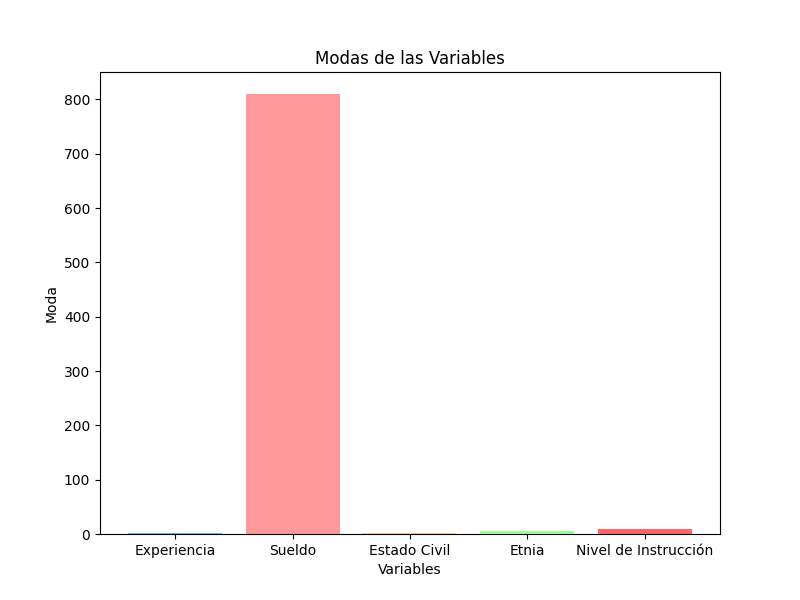
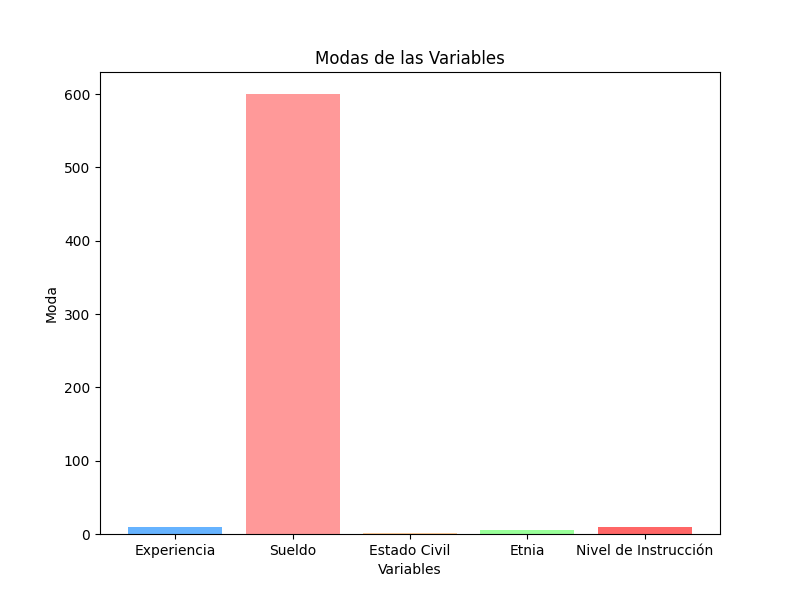
cambios

diff --git a/5_porcentajes.py b/5_porcentajes.py
@@ -28,13 +28,27 @@ porcentajeMujeres = (totalMujeres / total) * 100
 print(f'Porcentaje de Hombres: {porcentajeHombres}')
 print(f'Porcentaje de Mujeres: {porcentajeMujeres}')
 
+# Calcular la frecuencia absoluta
+frecuenciaHombres = totalHombres
+frecuenciaMujeres = totalMujeres
+
+print(f'Frecuencia Absoluta de Hombres: {frecuenciaHombres}')
+print(f'Frecuencia Absoluta de Mujeres: {frecuenciaMujeres}')
+
 # Crear un gráfico de barras para los porcentajes de hombres y mujeres
 labels = ['Hombres', 'Mujeres']
 sizes = [porcentajeHombres, porcentajeMujeres]
+frecuencias = [frecuenciaHombres, frecuenciaMujeres]
 colors = ['#66b3ff', '#ff9999']
 
 plt.figure(figsize=(8, 6))
-plt.bar(labels, sizes, color=colors)
+bars = plt.bar(labels, sizes, color=colors)
+
+# Añadir las etiquetas de frecuencia absoluta encima de las barras
+for bar, frecuencia in zip(bars, frecuencias):
+    yval = bar.get_height()
+    plt.text(bar.get_x() + bar.get_width()/2, yval + 1, f'{frecuencia}', ha='center', va='bottom')
+
 plt.xlabel('Sexo')
 plt.ylabel('Porcentaje')
 plt.title('Porcentajes de Hombres y Mujeres')
@@ -64,9 +78,25 @@ print(f'Porcentaje de Viudos: {porcentajeViudos}')
 print(f'Porcentaje de Union Libre: {porcentajeUnionLibre}')
 print(f'Porcentaje de Solteros: {porcentajeSolteros}')
 
+# Calcular la frecuencia absoluta
+frecuenciaCasados = totalCasados
+frecuenciaSeparado = totalSeparado
+frecuenciaDivorciados = totalDivorciados
+frecuenciaViudos = totalViudos
+frecuenciaUnionLibre = totalUnionLibre
+frecuenciaSolteros = totalSolteros
+
+print(f'Frecuencia Absoluta de Casados: {frecuenciaCasados}')
+print(f'Frecuencia Absoluta de Separados: {frecuenciaSeparado}')
+print(f'Frecuencia Absoluta de Divorciados: {frecuenciaDivorciados}')
+print(f'Frecuencia Absoluta de Viudos: {frecuenciaViudos}')
+print(f'Frecuencia Absoluta de Union Libre: {frecuenciaUnionLibre}')
+print(f'Frecuencia Absoluta de Solteros: {frecuenciaSolteros}')
+
 # Crear un gráfico circular para los porcentajes de estado civil
 labels = ['Casados', 'Separados', 'Divorciados', 'Viudos', 'Union Libre', 'Solteros']
 sizes = [porcentajeCasados, porcentajeSeparado, porcentajeDivorciados, porcentajeViudos, porcentajeUnionLibre, porcentajeSolteros]
+frecuencias = [frecuenciaCasados, frecuenciaSeparado, frecuenciaDivorciados, frecuenciaViudos, frecuenciaUnionLibre, frecuenciaSolteros]
 colors = ['#ff9999','#66b3ff','#99ff99','#ffcc99','#c2c2f0','#ffb3e6']
 explode = (0.1, 0, 0, 0, 0, 0)  # resaltar el primer segmento
 
@@ -74,6 +104,10 @@ plt.figure(figsize=(10, 7))
 plt.pie(sizes, explode=explode, labels=labels, colors=colors, autopct='%1.1f%%', shadow=True, startangle=140)
 plt.axis('equal')  # asegurar que el gráfico sea un círculo
 plt.title('Porcentajes de Estado Civil')
+
+# Añadir las etiquetas de frecuencia absoluta al gráfico circular
+plt.legend([f'{label}: {frecuencia}' for label, frecuencia in zip(labels, frecuencias)], loc='upper right')
+
 plt.savefig(f'{PathPorcentajes}estado_civil_pie_chart.png')  # Guarda el gráfico como un archivo
 
 # 3. Porcentaje de tipos de Etnia
@@ -105,13 +139,39 @@ print(f'Porcentaje de Mestizo: {porcentajeMestizo}')
 print(f'Porcentaje de Blanco: {porcentajeBlanco}')
 print(f'Porcentaje de Otro: {porcentajeOtro}')
 
+# Calcular la frecuencia absoluta
+frecuenciaIndigena = totalIndigena
+frecuenciaAfro = totalAfro
+frecuenciaNegro = totalNegro
+frecuenciaMulato = totalMulato
+frecuenciaMontubio = totalMontubio
+frecuenciaMestizo = totalMestizo
+frecuenciaBlanco = totalBlanco
+frecuenciaOtro = totalOtro
+
+print(f'Frecuencia Absoluta de Indigena: {frecuenciaIndigena}')
+print(f'Frecuencia Absoluta de Afro: {frecuenciaAfro}')
+print(f'Frecuencia Absoluta de Negro: {frecuenciaNegro}')
+print(f'Frecuencia Absoluta de Mulato: {frecuenciaMulato}')
+print(f'Frecuencia Absoluta de Montubio: {frecuenciaMontubio}')
+print(f'Frecuencia Absoluta de Mestizo: {frecuenciaMestizo}')
+print(f'Frecuencia Absoluta de Blanco: {frecuenciaBlanco}')
+print(f'Frecuencia Absoluta de Otro: {frecuenciaOtro}')
+
 # Crear un gráfico de barras para los porcentajes de etnia
 labels = ['Indigena', 'Afro', 'Negro', 'Mulato', 'Montubio', 'Mestizo', 'Blanco', 'Otro']
 sizes = [porcentajeIndigena, porcentajeAfro, porcentajeNegro, porcentajeMulato, porcentajeMontubio, porcentajeMestizo, porcentajeBlanco, porcentajeOtro]
+frecuencias = [frecuenciaIndigena, frecuenciaAfro, frecuenciaNegro, frecuenciaMulato, frecuenciaMontubio, frecuenciaMestizo, frecuenciaBlanco, frecuenciaOtro]
 colors = ['#ff9999','#66b3ff','#99ff99','#ffcc99','#c2c2f0','#ffb3e6','#c4e17f','#76d7c4']
 
 plt.figure(figsize=(10, 7))
-plt.bar(labels, sizes, color=colors)
+bars = plt.bar(labels, sizes, color=colors)
+
+# Añadir las etiquetas de frecuencia absoluta encima de las barras
+for bar, frecuencia in zip(bars, frecuencias):
+    yval = bar.get_height()
+    plt.text(bar.get_x() + bar.get_width()/2, yval + 1, f'{frecuencia}', ha='center', va='bottom')
+
 plt.xlabel('Etnia')
 plt.ylabel('Porcentaje')
 plt.title('Porcentajes de Etnia')
@@ -152,12 +212,45 @@ print(f'Porcentaje de Educacion Superior No Universitaria: {porcentajeEducacionS
 print(f'Porcentaje de Educacion Superior Universitaria: {porcentajeEducacionSuperiorUniv}')
 print(f'Porcentaje de Educacion Post Grados: {porcentajeEducacionPostGrados}')
 
+# Calcular la frecuencia absoluta
+frecuenciaNinguno = totalNinguno
+frecuenciaCentroAlfa = totalCentroAlfa
+frecuenciaJardinInfa = totalJardinInfa
+frecuenciaJardinPrimaria = totalJardinPrimaria
+frecuenciaEduBasica = totalEduBasica
+frecuenciaSecundaria = totalSecundaria
+frecuenciaEducacionMedia = totalEducacionMedia
+frecuenciaEducacionSuperiorNoUniv = totalEducacionSuperiorNoUniv
+frecuenciaEducacionSuperiorUniv = totalEducacionSuperiorUniv
+frecuenciaEducacionPostGrados = totalEducacionPostGrados
+
+print(f'Frecuencia Absoluta de Ninguno: {frecuenciaNinguno}')
+print(f'Frecuencia Absoluta de Centro Alfa: {frecuenciaCentroAlfa}')
+print(f'Frecuencia Absoluta de Jardin Infantil: {frecuenciaJardinInfa}')
+print(f'Frecuencia Absoluta de Jardin Primaria: {frecuenciaJardinPrimaria}')
+print(f'Frecuencia Absoluta de Educacion Basica: {frecuenciaEduBasica}')
+print(f'Frecuencia Absoluta de Secundaria: {frecuenciaSecundaria}')
+print(f'Frecuencia Absoluta de Educacion Media: {frecuenciaEducacionMedia}')
+print(f'Frecuencia Absoluta de Educacion Superior No Universitaria: {frecuenciaEducacionSuperiorNoUniv}')
+print(f'Frecuencia Absoluta de Educacion Superior Universitaria: {frecuenciaEducacionSuperiorUniv}')
+print(f'Frecuencia Absoluta de Educacion Post Grados: {frecuenciaEducacionPostGrados}')
+
 # Crear un gráfico de histogramas para los porcentajes de nivel de instrucción
-labels = ['Ninguno', 'Centro Alfa', 'Jardin Infantil', 'Jardin Primaria', 'Educacion Basica', 'Secundaria', 'Educacion Media', 'Educacion Superior No Univ', 'Educacion Superior Univ', 'Educacion Post Grados']
-sizes = [porcentajeNinguno, porcentajeCentroAlfa, porcentajeJardinInfa, porcentajeJardinPrimaria, porcentajeEduBasica, porcentajeSecundaria, porcentajeEducacionMedia, porcentajeEducacionSuperiorNoUniv, porcentajeEducacionSuperiorUniv, porcentajeEducacionPostGrados]
+labels = ['Ninguno', 'Centro Alfa', 'Jardin Infantil', 'Jardin Primaria', 'Educacion Basica', 'Secundaria', 'Educacion Media',
+           'Educacion Superior No Univ', 'Educacion Superior Univ', 'Educacion Post Grados']
+sizes = [porcentajeNinguno, porcentajeCentroAlfa, porcentajeJardinInfa, porcentajeJardinPrimaria, porcentajeEduBasica,
+          porcentajeSecundaria, porcentajeEducacionMedia, porcentajeEducacionSuperiorNoUniv, porcentajeEducacionSuperiorUniv, porcentajeEducacionPostGrados]
+frecuencias = [frecuenciaNinguno, frecuenciaCentroAlfa, frecuenciaJardinInfa, frecuenciaJardinPrimaria, frecuenciaEduBasica,
+               frecuenciaSecundaria, frecuenciaEducacionMedia, frecuenciaEducacionSuperiorNoUniv, frecuenciaEducacionSuperiorUniv, frecuenciaEducacionPostGrados]
 
 plt.figure(figsize=(12, 8))
-plt.bar(labels, sizes, color='skyblue')
+bars = plt.bar(labels, sizes, color='skyblue')
+
+# Añadir las etiquetas de frecuencia absoluta encima de las barras
+for bar, frecuencia in zip(bars, frecuencias):
+    yval = bar.get_height()
+    plt.text(bar.get_x() + bar.get_width()/2, yval + 1, f'{frecuencia}', ha='center', va='bottom')
+
 plt.xlabel('Nivel de Instrucción')
 plt.ylabel('Porcentaje')
 plt.title('Histogramas de Porcentajes de Nivel de Instrucción')

diff --git a/medidasEstadisticas.py b/medidasEstadisticas.py
@@ -7,14 +7,17 @@ FilterSueldoEmpleado = filtrar_datos()
 
 # VARIABLES GLOBALES
 Sexo = 'p02'
+Edad = 'p03'
 Sueldo = 'p66'
 EstadoCivil = 'p06'
 Experiencia = 'p45'
 Etnia = 'p15'
+Bono = 'Bono'
 NivelInstruccion = 'p10a'
 PathPromedios = 'graficos/medidasEstadisticas/'
 
 # Limpieza de datos: reemplazar espacios en blanco o cadenas vacías por NaN
+FilterSueldoEmpleado[Edad] = FilterSueldoEmpleado[Edad].replace(' ', pd.NA)
 FilterSueldoEmpleado[Experiencia] = FilterSueldoEmpleado[Experiencia].replace(' ', pd.NA)
 FilterSueldoEmpleado[Sueldo] = FilterSueldoEmpleado[Sueldo].replace(' ', pd.NA)
 FilterSueldoEmpleado[EstadoCivil] = FilterSueldoEmpleado[EstadoCivil].replace(' ', pd.NA)
@@ -25,6 +28,7 @@ FilterSueldoEmpleado[NivelInstruccion] = FilterSueldoEmpleado[NivelInstruccion].
 FilterSueldoEmpleado = FilterSueldoEmpleado.dropna(subset=[Experiencia, Sueldo, EstadoCivil, Etnia, NivelInstruccion])
 
 # Convertir las columnas a numérico, errores se manejan con 'coerce'
+FilterSueldoEmpleado.loc[:, Edad] = pd.to_numeric(FilterSueldoEmpleado[Edad], errors='coerce')
 FilterSueldoEmpleado.loc[:, Experiencia] = pd.to_numeric(FilterSueldoEmpleado[Experiencia], errors='coerce')
 FilterSueldoEmpleado.loc[:, Sueldo] = pd.to_numeric(FilterSueldoEmpleado[Sueldo], errors='coerce')
 FilterSueldoEmpleado.loc[:, EstadoCivil] = pd.to_numeric(FilterSueldoEmpleado[EstadoCivil], errors='coerce')
@@ -33,8 +37,20 @@ FilterSueldoEmpleado.loc[:, NivelInstruccion] = pd.to_numeric(FilterSueldoEmplea
 
 # Calcular la matriz de correlación
 print('************************************ Matriz de Correlación ********************************************')
-correlation_matrix = FilterSueldoEmpleado.corr()
+# QUIERO QUE LA MATRIZ DE CORRELACION FilterSueldoEmpleado SOLO SE MUESTREN LAS COLUMNAS p45, p66, p03, Bono
+FilterSueldoEmpleadoCorr = FilterSueldoEmpleado[[Experiencia, Sueldo, Edad, Bono]]
+correlation_matrix = FilterSueldoEmpleadoCorr.corr()
 print(correlation_matrix)
+
+# Crear un gráfico de calor para la matriz de correlación
+plt.figure(figsize=(10, 8))
+plt.matshow(correlation_matrix, cmap='coolwarm', fignum=1)
+plt.colorbar()
+plt.xticks(range(len(correlation_matrix.columns)), correlation_matrix.columns, rotation=45, ha='left')
+plt.yticks(range(len(correlation_matrix.columns)), correlation_matrix.columns)
+plt.title('Matriz de Correlación')
+plt.savefig(PathPromedios + 'correlation_matrix_heatmap.png')  # Guarda el gráfico como un archivo
+
 
 # Calcular las medidas estadísticas
 print('************************************ Medidas Estadísticas ********************************************')
@@ -98,7 +114,8 @@ print(f'Cuartiles del Nivel de Instrucción:\n{cuartiles_nivel_instruccion}')
 
 # Crear un gráfico de caja para los cuartiles de las variables
 plt.figure(figsize=(10, 8))
-data_to_plot = [FilterSueldoEmpleado[Experiencia], FilterSueldoEmpleado[Sueldo], FilterSueldoEmpleado[EstadoCivil], FilterSueldoEmpleado[Etnia], FilterSueldoEmpleado[NivelInstruccion]]
+data_to_plot = [FilterSueldoEmpleado[Experiencia], FilterSueldoEmpleado[Sueldo], FilterSueldoEmpleado[EstadoCivil],
+                 FilterSueldoEmpleado[Etnia], FilterSueldoEmpleado[NivelInstruccion]]
 labels = ['Experiencia', 'Sueldo', 'Estado Civil', 'Etnia', 'Nivel de Instrucción']
 box = plt.boxplot(data_to_plot, patch_artist=True, tick_labels=labels)
 
@@ -127,7 +144,8 @@ print('Asimetría del Nivel de Instrucción: ', FilterSueldoEmpleado[NivelInstru
 
 # Crear un gráfico de barras para las medidas estadísticas
 labels = ['Experiencia', 'Sueldo', 'Estado Civil', 'Etnia', 'Nivel de Instrucción']
-sizes = [FilterSueldoEmpleado[Experiencia].mean(), FilterSueldoEmpleado[Sueldo].mean(), FilterSueldoEmpleado[EstadoCivil].mean(), FilterSueldoEmpleado[Etnia].mean(), FilterSueldoEmpleado[NivelInstruccion].mean()]
+sizes = [FilterSueldoEmpleado[Experiencia].mean(), FilterSueldoEmpleado[Sueldo].mean(), FilterSueldoEmpleado[EstadoCivil].mean(), 
+         FilterSueldoEmpleado[Etnia].mean(), FilterSueldoEmpleado[NivelInstruccion].mean()]
 colors = ['#66b3ff', '#ff9999', '#ffcc99', '#99ff99', '#ff6666']
 
 plt.figure(figsize=(8, 6))
@@ -138,7 +156,8 @@ plt.title('Medias de las Variables')
 plt.savefig(PathPromedios + 'medias_bar_chart.png')  # Guarda el gráfico como un archivo
 
 # Crear un gráfico de barras para las medidas estadísticas
-sizes = [FilterSueldoEmpleado[Experiencia].median(), FilterSueldoEmpleado[Sueldo].median(), FilterSueldoEmpleado[EstadoCivil].median(), FilterSueldoEmpleado[Etnia].median(), FilterSueldoEmpleado[NivelInstruccion].median()]
+sizes = [FilterSueldoEmpleado[Experiencia].median(), FilterSueldoEmpleado[Sueldo].median(), FilterSueldoEmpleado[EstadoCivil].median(),
+          FilterSueldoEmpleado[Etnia].median(), FilterSueldoEmpleado[NivelInstruccion].median()]
 
 plt.figure(figsize=(8, 6))
 plt.bar(labels, sizes, color=colors)
@@ -148,7 +167,8 @@ plt.title('Medianas de las Variables')
 plt.savefig(PathPromedios + 'medianas_bar_chart.png')  # Guarda el gráfico como un archivo
 
 # Crear un gráfico de barras para las medidas estadísticas
-sizes = [FilterSueldoEmpleado[Experiencia].mode()[0], FilterSueldoEmpleado[Sueldo].mode()[0], FilterSueldoEmpleado[EstadoCivil].mode()[0], FilterSueldoEmpleado[Etnia].mode()[0], FilterSueldoEmpleado[NivelInstruccion].mode()[0]]
+sizes = [FilterSueldoEmpleado[Experiencia].mode()[0], FilterSueldoEmpleado[Sueldo].mode()[0], FilterSueldoEmpleado[EstadoCivil].mode()[0], 
+         FilterSueldoEmpleado[Etnia].mode()[0], FilterSueldoEmpleado[NivelInstruccion].mode()[0]]
 
 plt.figure(figsize=(8, 6))
 plt.bar(labels, sizes, color=colors)
@@ -158,7 +178,8 @@ plt.title('Modas de las Variables')
 plt.savefig(PathPromedios + 'modas_bar_chart.png')  # Guarda el gráfico como un archivo
 
 # Crear un gráfico de barras para las medidas estadísticas
-sizes = [FilterSueldoEmpleado[Experiencia].std(), FilterSueldoEmpleado[Sueldo].std(), FilterSueldoEmpleado[EstadoCivil].std(), FilterSueldoEmpleado[Etnia].std(), FilterSueldoEmpleado[NivelInstruccion].std()]
+sizes = [FilterSueldoEmpleado[Experiencia].std(), FilterSueldoEmpleado[Sueldo].std(), FilterSueldoEmpleado[EstadoCivil].std(),
+          FilterSueldoEmpleado[Etnia].std(), FilterSueldoEmpleado[NivelInstruccion].std()]
 
 plt.figure(figsize=(8, 6))
 plt.bar(labels, sizes, color=colors)

diff --git a/6_sueldosPromedios.py b/6_sueldosPromedios.py
@@ -12,6 +12,7 @@ EstadoCivil = 'p06'
 Experiencia = 'p45'
 Etnia = 'p15'
 NivelInstruccion = 'p10a'  # Assuming 'p10' is the column for 'Nivel de instrucción'
+Edad = 'p03'
 PathPromedios = 'graficos/promediosSueldo/'
 
 # 1. Sueldo Promedio de Hombres y Mujeres
@@ -42,7 +43,8 @@ plt.savefig(f'{PathPromedios}sueldo_promedio_bar_chart.png')  # Save the chart
 FilterSueldoEmpleado[Experiencia] = pd.to_numeric(FilterSueldoEmpleado[Experiencia], errors='coerce')
 FilterSueldoEmpleado = FilterSueldoEmpleado.dropna(subset=[Experiencia])
 FilterSueldoEmpleado[Experiencia] = FilterSueldoEmpleado[Experiencia].astype(int)
-FilterSueldoEmpleado['Experiencia'] = pd.cut(FilterSueldoEmpleado[Experiencia], bins=[0, 5, 10, 15, 20, 25, 30, 35, 40, 45, 50], labels=['0-5', '6-10', '11-15', '16-20', '21-25', '26-30', '31-35', '36-40', '41-45', '46-50'])
+FilterSueldoEmpleado['Experiencia'] = pd.cut(FilterSueldoEmpleado[Experiencia], bins=[0, 5, 10, 15, 20, 25, 30, 35, 40, 45, 50],
+                                              labels=['0-5', '6-10', '11-15', '16-20', '21-25', '26-30', '31-35', '36-40', '41-45', '46-50'])
 
 totalExperiencia = FilterSueldoEmpleado.groupby('Experiencia')[Sueldo].mean()
 
@@ -155,8 +157,10 @@ print(f'Sueldo Promedio de Educación Superior Universitaria: {totalEducacionSup
 print(f'Sueldo Promedio de Educación de Postgrados: {totalEducacionPostGrados}')
 
 # Create a bar chart for average salaries by level of education
-labels = ['Ninguno', 'Centro de Alfabetización', 'Jardín de Infantes', 'Jardín de Primaria', 'Educación Básica', 'Secundaria', 'Educación Media', 'Educación Superior No Universitaria', 'Educación Superior Universitaria', 'Educación de Postgrados']
-sizes = [totalNinguno, totalCentroAlfa, totalJardinInfa, totalJardinPrimaria, totalEduBasica, totalSecundaria, totalEducacionMedia, totalEducacionSuperiorNoUniv, totalEducacionSuperiorUniv, totalEducacionPostGrados]
+labels = ['Ninguno', 'Centro de Alfabetización', 'Jardín de Infantes', 'Jardín de Primaria', 'Educación Básica', 'Secundaria', 'Educación Media',
+           'Educación Superior No Universitaria', 'Educación Superior Universitaria', 'Educación de Postgrados']
+sizes = [totalNinguno, totalCentroAlfa, totalJardinInfa, totalJardinPrimaria, totalEduBasica, totalSecundaria, totalEducacionMedia,
+          totalEducacionSuperiorNoUniv, totalEducacionSuperiorUniv, totalEducacionPostGrados]
 colors = ['#66b3ff', '#ff9999', '#99ff99', '#ffcc99', '#c2c2f0', '#ffb3e6', '#ffccff', '#ffcc66', '#c2f0c2', '#ff99cc']
 
 plt.figure(figsize=(14, 8))
@@ -166,3 +170,28 @@ plt.ylabel('Sueldo Promedio')
 plt.title('Sueldo Promedio por Nivel de Instrucción')
 plt.xticks(rotation=15)
 plt.savefig(f'{PathPromedios}sueldo_promedio_por_nivel_instruccion_bar_chart.png')
+
+
+# 6. Sueldo Promedio por Edad
+
+# Calculate average salaries by age
+FilterSueldoEmpleado[Edad] = pd.to_numeric(FilterSueldoEmpleado[Edad], errors='coerce')
+FilterSueldoEmpleado = FilterSueldoEmpleado.dropna(subset=[Edad])
+FilterSueldoEmpleado[Edad] = FilterSueldoEmpleado[Edad].astype(int)
+FilterSueldoEmpleado['Edad'] = pd.cut(FilterSueldoEmpleado[Edad], bins=[0, 20, 30, 40, 50, 60, 70, 80, 90, 100],
+                                      labels=['0-20', '21-30', '31-40', '41-50', '51-60', '61-70', '71-80', '81-90', '91-100'])
+
+totalEdad = FilterSueldoEmpleado.groupby('Edad')[Sueldo].mean()
+
+print(f'************************************ Sueldo Promedio por Edad ********************************************')
+print(totalEdad)
+
+# Create a bar chart for average salaries by age
+plt.figure(figsize=(12, 6))
+totalEdad.plot(kind='bar', color='skyblue')
+plt.xlabel('Edad')
+plt.ylabel('Sueldo Promedio')
+plt.title('Sueldo Promedio por Edad')
+plt.savefig(f'{PathPromedios}sueldo_promedio_por_edad_bar_chart.png')  # Save the chart
+# plt.show()
+

diff --git a/8_promedioBono.py b/8_promedioBono.py
@@ -89,7 +89,8 @@ print(f'Promedio Bono Otro: {promedioBonoOtro}')
 
 # Create a bar chart for the average
 labels = ['Indígena', 'Afroecuatoriano', 'Negro', 'Mulato', 'Montubio', 'Mestizo', 'Blanco', 'Otro']
-sizes = [promedioBonoIndigena, promedioBonoAfroecuatoriano, promedioBonoNegro, promedioBonoMulato, promedioBonoMontubio, promedioBonoMestizo, promedioBonoBlanco, promedioBonoOtro]
+sizes = [promedioBonoIndigena, promedioBonoAfroecuatoriano, promedioBonoNegro, promedioBonoMulato, promedioBonoMontubio,
+          promedioBonoMestizo, promedioBonoBlanco, promedioBonoOtro]
 colors = ['#66b3ff', '#ff9999', '#99ff99', '#ffcc99', '#c2c2f0', '#ffb3e6', '#c4e17f', '#76d7c4']
 
 plt.figure(figsize=(12, 6))
@@ -157,7 +158,8 @@ print(f'Promedio Bono Educación de Postgrados: {promedioBonoEducacionPostGrados
 
 # Create a bar chart for the average
 labels = ['Ninguno', 'Alfabetización', 'Infantes', 'Primaria', 'Básica', 'Secundaria', 'Media', 'Sup. No Univ', 'Sup. Univ', 'Postgrados']
-sizes = [promedioBonoNinguno, promedioBonoCentroAlfa, promedioBonoJardinInfa, promedioBonoJardinPrimaria, promedioBonoEduBasica, promedioBonoSecundaria, promedioBonoEducacionMedia, promedioBonoEducacionSuperiorNoUniv, promedioBonoEducacionSuperiorUniv, promedioBonoEducacionPostGrados]
+sizes = [promedioBonoNinguno, promedioBonoCentroAlfa, promedioBonoJardinInfa, promedioBonoJardinPrimaria, promedioBonoEduBasica,
+          promedioBonoSecundaria, promedioBonoEducacionMedia, promedioBonoEducacionSuperiorNoUniv, promedioBonoEducacionSuperiorUniv, promedioBonoEducacionPostGrados]
 colors = ['#66b3ff', '#ff9999', '#99ff99', '#ffcc99', '#c2c2f0', '#ffb3e6', '#c4e17f', '#76d7c4', '#ffb347', '#ff6961']
 
 plt.figure(figsize=(12, 6))

diff --git a/7_porcentajesHYM.py b/7_porcentajesHYM.py
@@ -359,7 +359,8 @@ print(f'Porcentaje de Educación de Postgrados: {porcentajeEducacionPostGradosMu
 labels_instruccion_mujeres = ['Ninguno', 'Centro Alfa', 'Jardín Inf.', 'Jardín Prim.', 'Edu. Básica', 
                       'Secundaria', 'Edu. Media', 'Sup. No Univ.', 'Sup. Univ.', 'Postgrados']
 sizes_instruccion_mujeres = [porcentajeNingunoMujeres, porcentajeCentroAlfaMujeres, porcentajeJardinInfaMujeres, porcentajeJardinPrimariaMujeres, porcentajeEduBasicaMujeres, 
-                     porcentajeSecundariaMujeres, porcentajeEducacionMediaMujeres, porcentajeEducacionSuperiorNoUnivMujeres, porcentajeEducacionSuperiorUnivMujeres, porcentajeEducacionPostGradosMujeres]
+                     porcentajeSecundariaMujeres, porcentajeEducacionMediaMujeres, porcentajeEducacionSuperiorNoUnivMujeres, porcentajeEducacionSuperiorUnivMujeres,
+                       porcentajeEducacionPostGradosMujeres]
 colors_instruccion_mujeres = ['#66b3ff', '#ff9999', '#ffcc99', '#99ff99', '#66ff66', '#ff6666', '#ffcc66', '#c2c2f0', '#ffb3e6', '#c2f0c2']
 
 plt.figure(figsize=(10, 7))

diff --git a/filterData.py b/filterData.py
@@ -2,7 +2,7 @@ import pandas as pd
 
 def filtrar_datos():
     # Leer el archivo CSV
-    csv_path = 'base/BDDenemdu_personas_2023_anual.csv'
+    csv_path = 'base/enemdu_persona_2024_07.csv'
     delimiter = ';'
     mes=1
     sueldo_min=550 
@@ -15,11 +15,13 @@ def filtrar_datos():
     Experiencia = 'p45'
     Sueldo = 'p66'
     EstadoCivil = 'p06'
+    Edad = 'p06'
     Etnia = 'p15'
     NivelInstruccion = 'p10a'
 
     # Filtrar el DataFrame para que solo sean los datos del mes que nos interesa
-    filteredMes = df[df[Mes] == mes]
+    # filteredMes = df[df[Mes] == mes]
+    filteredMes = df
     
     # Limpiar la columna Sueldo: eliminar espacios en blanco o reemplazarlos por NaN
     filteredMes[Sueldo] = filteredMes[Sueldo].replace(' ', None)
